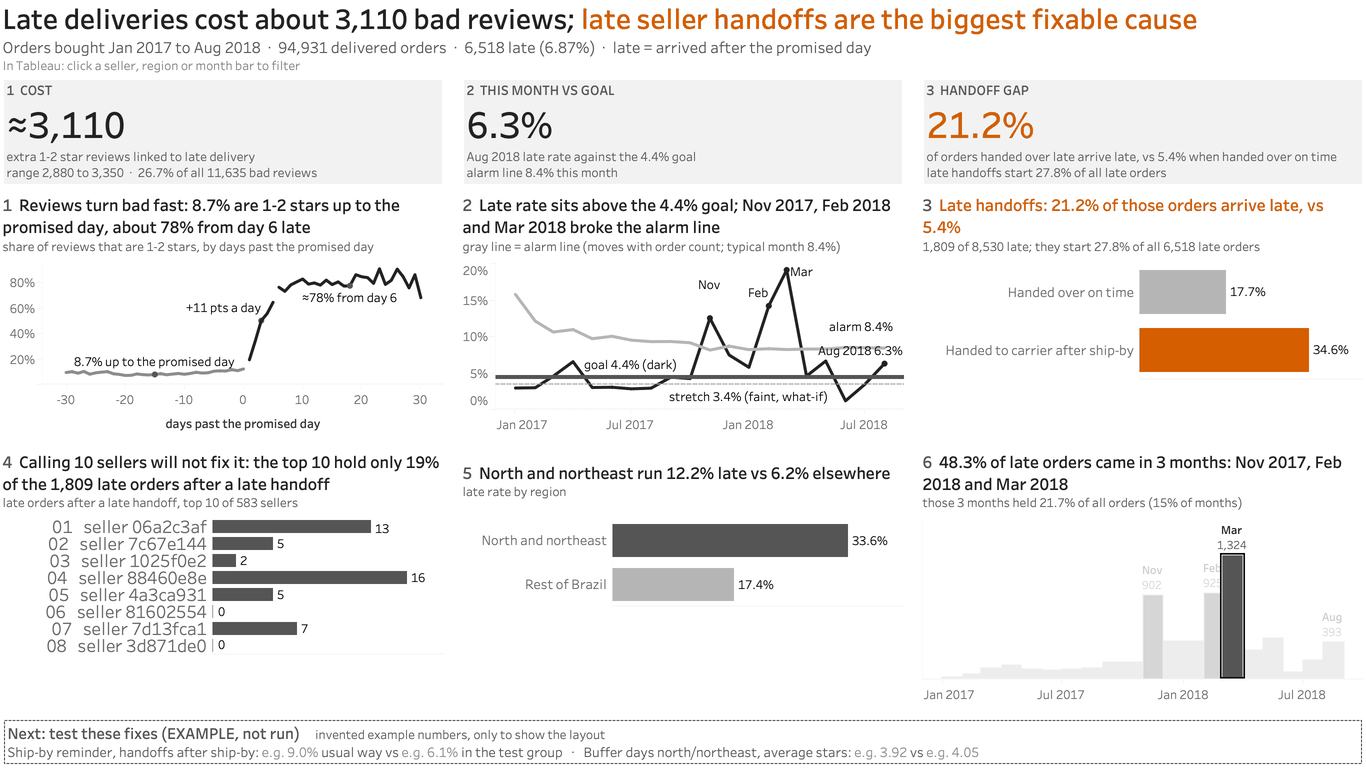
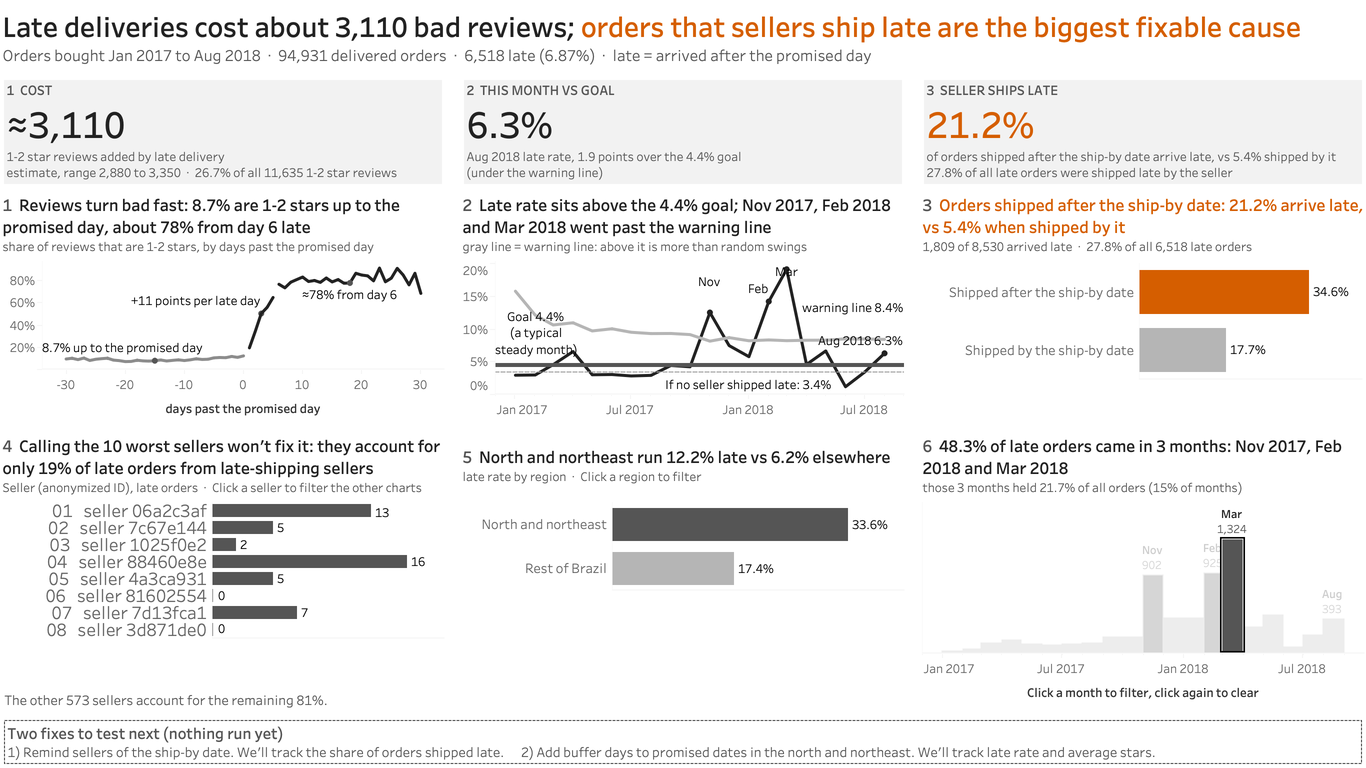
Dashboard wording v3: seller ships late, plain line labels, per-panel click hints, seller panel decision, two fixes to test next
- 'handoff' / 'alarm line' / 'stretch what-if' replaced on the dashboard by plain words; data tables keep their names
- tile 2 shows points over goal computed from summary.csv; seller panel title, anonymized-ID header, computed closing line
- bottom strip names two fixes to test next, no numbers
- click hints per panel, global hint removed
- regenerated workbook and PNG; seller, region and month clicks re-tested; README and evidence updated

diff --git a/dashboard/tableau/gen_workbook.py b/dashboard/tableau/gen_workbook.py
@@ -3,7 +3,7 @@
 
 Builds the Tableau workbook XML for the late-delivery dashboard (layout B1, version 2). The workbook head comes from
 ctrl_saved_desktop_free.twb in this folder, a workbook saved by Tableau Desktop (hand-written workbooks do not open).
-Both data dirs hold orders.csv, ramp_b.csv, monthly_long.csv, summary.csv and tests_example.csv. The second path is
+Both data dirs hold orders.csv, ramp_b.csv, monthly_long.csv, summary.csv. The second path is
 written into the workbook as the folder Tableau reads the CSVs from.
 
 Settings (environment variables):
@@ -306,7 +306,6 @@ def p0(x): return '%d%%'%round(x*100)
 def p1(x): return '%.1f%%'%(x*100)
 def p2(x): return '%.2f%%'%(x*100)
 def n0(x): return format(int(round(float(x))),',')
-TESTS=list(csv.DictReader(open(os.path.join(boxdata,'tests_example.csv'))))
 ACC=OR; INK='#222222'; MID='#555555'; LIGHT='#B5B5B5'; PALE='#D0D0D0'
 ORD=D_ord=DS('ord','orders','orders.csv'); D={'ord':ORD}
 D['ramp']=DS('ramp','ramp_b','ramp_b.csv'); D['ml']=DS('ml','monthly_long','monthly_long.csv')
@@ -335,13 +334,13 @@ worksheet('Trend',M,[('value','sum'),xk],mark='Line',cols=M.q(*xk),rows=M.q('val
     tip=TIPS.get(os.environ.get('TIPV','a')))
 # ---- 3 why: handoff
 ows('Handoff',ORD,[('has_handoff','nk')],mark='Bar',rows=ORD.q('handoff_group','nk'),cols=ORD.q('late','avg'),color=('handoff_group','nk'),text=('late','avg'),
-    palette_map=[('Handed to carrier after ship-by',ACC),('Handed over on time',LIGHT)],hide_axes=[('late','avg')],extra_uses=[('late','avg'),('handoff_group','nk')],
+    palette_map=[('Shipped after the ship-by date',ACC),('Shipped by the ship-by date',LIGHT)],hide_axes=[('late','avg')],extra_uses=[('late','avg'),('handoff_group','nk')],
     filt=fmember(ORD,'has_handoff','true'),header_w=(('handoff_group','nk'),215),header_font=(10,'normal'),cell_rules=[('cell','height',58,ORD.q('handoff_group','nk'))],
     tip=['Orders: ',('order_code','cnt'),'\nLate orders: ',('late_n','sum'),'\nLate rate: ',('late','avg')])
 # ---- 4 who: sellers (top 10 overall)
 ows('Sellers',ORD,[('is_top10','nk')],mark='Bar',rows=ORD.q('seller_label','nk'),cols=ORD.q('lalh_n','sum'),text=('lalh_n','sum'),pane_color=MID,
     hide_axes=[('lalh_n','sum')],extra_uses=[('lalh_n','sum'),('seller_label','nk')],filt=fmember(ORD,'is_top10','true'),header_w=(('seller_label','nk'),210),header_font=(13,'bold'),cell_rules=[('cell','height',17,ORD.q('seller_label','nk'))],
-    tip=['Orders: ',('order_code','cnt'),'\nOrders handed over late: ',('late_handoff_n','sum'),'\nLate orders after a late handoff: ',('lalh_n','sum'),'\nLate orders (all): ',('late_n','sum'),'\nLate rate: ',('late','avg')])
+    tip=['Orders: ',('order_code','cnt'),'\nOrders shipped late: ',('late_handoff_n','sum'),'\nLate orders that were shipped late: ',('lalh_n','sum'),'\nLate orders (all): ',('late_n','sum'),'\nLate rate: ',('late','avg')])
 # ---- 5 where / when
 ows('Region',ORD,None,mark='Bar',rows=ORD.q('region_group','nk'),cols=ORD.q('late','avg'),color=('region_group','nk'),text=('late','avg'),
     palette_map=[('North and northeast',MID),('Rest of Brazil',LIGHT)],hide_axes=[('late','avg')],extra_uses=[('late','avg'),('region_group','nk')],
@@ -350,7 +349,7 @@ ows('Region',ORD,None,mark='Bar',rows=ORD.q('region_group','nk'),cols=ORD.q('lat
 BK=('month_start','tmn')
 ows('Months',ORD,[BK],mark='Bar',cols=ORD.q(*BK),rows=ORD.q('late_n','sum'),color=('is_worst3_month','nk'),text=[('month_tag','nk'),('late_tag_n','sum')],runs=None if 'NORUNS' in os.environ.get('X','') else [(('month_tag','nk'),8,True,INK),(None,0,0,''),(('late_tag_n','sum'),8,False,MID)],
     palette_map=[('true',MID),('false',PALE)],hide_axes=[('late_n','sum')],extra_uses=[('late_n','sum'),('late_tag_n','sum'),BK],
-    axis_titles={(BK[0],BK[1],'cols'):'',('late_n','sum','rows'):''},xspace=(BK,'#2017-01-01#','6.0','months'),datefmts=[('label','*mmm yyyy',None)],
+    axis_titles={(BK[0],BK[1],'cols'):'Click a month to filter, click again to clear',('late_n','sum','rows'):''},xspace=(BK,'#2017-01-01#','6.0','months'),datefmts=[('label','*mmm yyyy',None)],
     tip=['Orders: ',('order_code','cnt'),'\nLate orders: ',('late_n','sum'),'\nLate rate: ',('late','avg')])
 # ----------------------------------------------------------------------- dashboard
 W,Hh=1366,768
@@ -375,21 +374,20 @@ def ztxt(runs,x,y,w,h,style=''):
     return "        <zone h='%d' id='%d' type='text' w='%d' x='%d' y='%d'><formatted-text>%s</formatted-text>%s</zone>\n"%(P(h),nid(),P(w),P(x),P(y),''.join(rr),style or zstyle())
 NL=('\n',0,0,'')
 fin_a='Late deliveries cost about %s bad reviews; '%n0(F('extra_bad_reviews_rounded'))
-fin_b='late seller handoffs are the biggest fixable cause'
+fin_b='orders that sellers ship late are the biggest fixable cause'
 CX=[1,34,67]; CW=32
 Z=''
-Z+=ztxt([(fin_a,20,True,INK),(fin_b,20,True,ACC),NL,('Orders bought Jan 2017 to Aug 2018  ·  %s delivered orders  ·  %s late (%s)  ·  late = arrived after the promised day'%(n0(F('judged_orders')),n0(F('late_orders')),p2(F('late_rate'))),11,False,MID),NL,
-        ('In Tableau: click a seller, region or month bar to filter',9,False,'#808080')],1,0.4,98,9.6)
-kpi=[('1  COST',INK,'≈'+n0(F('extra_bad_reviews_rounded')),'extra 1-2 star reviews linked to late delivery','range %s to %s  ·  %s of all %s bad reviews'%(n0(F('extra_range_low_rounded')),n0(F('extra_range_high_rounded')),p1(F('extra_share_of_bad_reviews')),n0(F('bad_reviews_all')))),
-     ('2  THIS MONTH VS GOAL',INK,p1(F('latest_month_late_rate')),'%s late rate against the %s goal'%(SUM['latest_month_label'],p1(F('goal_late_rate'))),'alarm line %s this month'%p1(F('latest_month_own_alarm_line_late_rate'))),
-     ('3  HANDOFF GAP',ACC,p1(F('late_handoff_late_rate')),'of orders handed over late arrive late, vs %s when handed over on time'%p1(F('on_time_handoff_late_rate')),'late handoffs start %s of all late orders'%p1(F('late_handoff_share_of_late')))]
+Z+=ztxt([(fin_a,20,True,INK),(fin_b,20,True,ACC),NL,('Orders bought Jan 2017 to Aug 2018  ·  %s delivered orders  ·  %s late (%s)  ·  late = arrived after the promised day'%(n0(F('judged_orders')),n0(F('late_orders')),p2(F('late_rate'))),11,False,MID)],1,0.4,98,9.6)
+kpi=[('1  COST',INK,'≈'+n0(F('extra_bad_reviews_rounded')),'1-2 star reviews added by late delivery','estimate, range %s to %s  ·  %s of all %s 1-2 star reviews'%(n0(F('extra_range_low_rounded')),n0(F('extra_range_high_rounded')),p1(F('extra_share_of_bad_reviews')),n0(F('bad_reviews_all')))),
+     ('2  THIS MONTH VS GOAL',INK,p1(F('latest_month_late_rate')),'%s late rate, %.1f points %s the %s goal'%(SUM['latest_month_label'],abs(F('latest_month_late_rate')-F('goal_late_rate'))*100,'over' if F('latest_month_late_rate')>=F('goal_late_rate') else 'under',p1(F('goal_late_rate'))),'(%s the warning line)'%('under' if F('latest_month_late_rate')<F('latest_month_own_alarm_line_late_rate') else 'over')),
+     ('3  SELLER SHIPS LATE',ACC,p1(F('late_handoff_late_rate')),'of orders shipped after the ship-by date arrive late, vs %s shipped by it'%p1(F('on_time_handoff_late_rate')),'%s of all late orders were shipped late by the seller'%p1(F('late_handoff_share_of_late')))]
 if VAR=='b1':
     for i,(h,c,big,s1,s2) in enumerate(kpi):
         Z+=ztxt([(h,10,True,MID),NL,(big,27,True,c),NL,(s1,9,False,MID),NL,(s2,9,False,MID)],CX[i],10.2,CW,14.6,zstyle(bg='#F2F2F2',margin=4))
     R1T=25.0
 else:
     runs=[]
-    segs=[('≈'+n0(F('extra_bad_reviews_rounded')),INK,' extra bad reviews linked to late delivery'),(p1(F('latest_month_late_rate')),INK,' late in %s, goal %s'%(SUM['latest_month_label'],p1(F('goal_late_rate')))),(p1(F('late_handoff_late_rate')),ACC,' late after a late handoff, vs %s'%p1(F('on_time_handoff_late_rate')))]
+    segs=[('≈'+n0(F('extra_bad_reviews_rounded')),INK,' extra bad reviews linked to late delivery'),(p1(F('latest_month_late_rate')),INK,' late in %s, goal %s'%(SUM['latest_month_label'],p1(F('goal_late_rate')))),(p1(F('late_handoff_late_rate')),ACC,' late when shipped late, vs %s'%p1(F('on_time_handoff_late_rate')))]
     for j,(b,c,t) in enumerate(segs):
         if j: runs.append(('      |      ',14,False,LIGHT))
         runs+= [(b,24,True,c),(t,12,False,MID)]
@@ -400,24 +398,24 @@ def title(n,head,note,x,y,w,hh=TH,hc=INK):
     runs=[('%s  '%n,12,True,MID),(head,12,True,hc)]
     if note: runs+=[NL,(note,9,False,MID)]
     return ztxt(runs,x,y,w,hh)
-r1c=R1T+TH; r1h=(57.6-r1c)
+r1c=R1T+TH; r1h=(55.6-r1c)
 r2T=r1c+r1h+0.6; r2c=r2T+TH; r2h=92.4-r2c
 Z+=title('1','Reviews turn bad fast: %s are 1-2 stars up to the promised day, about %s from day 6 late'%(p1(F('ramp_share_up_to_promised_day')),p0(F('ramp_share_from_day_6'))),'share of reviews that are 1-2 stars, by days past the promised day',CX[0],R1T,CW)
 Z+=zone_sheet('Review ramp',CX[0],r1c,CW,r1h,zstyle(margin=2))
-Z+=title('2','Late rate sits above the %s goal; %s broke the alarm line'%(p1(F('goal_late_rate')),SUM['worst3_months_label']),'gray line = alarm line (moves with order count; typical month %s)'%p1(F('typical_month_alarm_line_late_rate')),CX[1],R1T,CW)
+Z+=title('2','Late rate sits above the %s goal; %s went past the warning line'%(p1(F('goal_late_rate')),SUM['worst3_months_label']),'gray line = warning line: above it is more than random swings',CX[1],R1T,CW)
 Z+=zone_sheet('Trend',CX[1],r1c,CW,r1h,zstyle(margin=2))
-Z+=title('3','Late handoffs: %s of those orders arrive late, vs %s'%(p1(F('late_handoff_late_rate')),p1(F('on_time_handoff_late_rate'))),'%s of %s late; they start %s of all %s late orders'%(n0(F('late_handoff_late_orders')),n0(F('late_handoff_orders')),p1(F('late_handoff_share_of_late')),n0(F('late_orders'))),CX[2],R1T,CW,hc=ACC)
+Z+=title('3','Orders shipped after the ship-by date: %s arrive late, vs %s when shipped by it'%(p1(F('late_handoff_late_rate')),p1(F('on_time_handoff_late_rate'))),'%s of %s arrived late  ·  %s of all %s late orders'%(n0(F('late_handoff_late_orders')),n0(F('late_handoff_orders')),p1(F('late_handoff_share_of_late')),n0(F('late_orders'))),CX[2],R1T,CW,hc=ACC)
 Z+=zone_sheet('Handoff',CX[2],r1c,CW,r1h,zstyle(margin=4))
-Z+=title('4','Calling 10 sellers will not fix it: the top 10 hold only %s of the %s late orders after a late handoff'%(p0(F('top10_share_of_late_after_late_handoff')),n0(F('late_handoff_late_orders'))),'late orders after a late handoff, top 10 of %s sellers'%n0(F('sellers_with_late_after_late_handoff')),CX[0],r2T,CW)
-Z+=zone_sheet('Sellers',CX[0],r2c,CW,r2h,zstyle(margin=2))
-Z+=title('5','North and northeast run %s late vs %s elsewhere'%(p1(F('nne_late_rate')),p1(F('rest_late_rate'))),'late rate by region',CX[1],r2T,CW)
+N_SELL=int(round(F('sellers_with_late_after_late_handoff')))
+CLOSE_H=2.6
+Z+=title('4',"Calling the 10 worst sellers won't fix it: they account for only %s of late orders from late-shipping sellers"%p0(F('top10_share_of_late_after_late_handoff')),'Seller (anonymized ID), late orders  ·  Click a seller to filter the other charts',CX[0],r2T,CW)
+Z+=zone_sheet('Sellers',CX[0],r2c,CW,r2h-CLOSE_H,zstyle(margin=2))
+Z+=ztxt([('The other %d sellers account for the remaining %s.'%(N_SELL-10,p0(1-F('top10_share_of_late_after_late_handoff'))),10,False,MID)],CX[0],r2c+r2h-CLOSE_H,CW,CLOSE_H,zstyle(margin=2))
+Z+=title('5','North and northeast run %s late vs %s elsewhere'%(p1(F('nne_late_rate')),p1(F('rest_late_rate'))),'late rate by region  ·  Click a region to filter',CX[1],r2T,CW)
 Z+=zone_sheet('Region',CX[1],r2c,CW,min(r2h,14),zstyle(margin=2))
 Z+=ztxt([('6  ',12,True,MID),('%s of late orders came in 3 months: %s'%(p1(F('worst3_share_of_late')),SUM['worst3_months_label']),12,True,INK),NL,('those 3 months held %s of all orders (%s of months)'%(p1(F('worst3_share_of_orders')),p0(F('worst3_share_of_months'))),9,False,MID)],CX[2],r2T,CW,TH)
 Z+=zone_sheet('Months',CX[2],r2c,CW,r2h,zstyle(margin=2))
-t1,t2=TESTS[0],TESTS[1]
-EG='#8A8A8A'
-def eg(v): return ('e.g. '+v.rstrip('*'),10,False,EG)
-Z+=ztxt([('Next: test these fixes (EXAMPLE, not run)',11,True,MID),('      invented example numbers, only to show the layout',9,False,MID),NL,('Ship-by reminder, handoffs after ship-by: ',10,False,MID),eg(t1['no_change_group_display']),(' usual way vs ',10,False,MID),eg(t1['test_group_display']),(' in the test group   ·   Buffer days north/northeast, average stars: ',10,False,MID),eg(t2['no_change_group_display']),(' vs ',10,False,MID),eg(t2['test_group_display'])],1,93.1,98,6.8,zstyle(border=MID,bstyle='dashed',bw=1,margin=4))
+Z+=ztxt([('Two fixes to test next (nothing run yet)',11,True,MID),NL,("1) Remind sellers of the ship-by date. We'll track the share of orders shipped late.      2) Add buffer days to promised dates in the north and northeast. We'll track late rate and average stars.",10,False,MID)],1,93.1,98,6.8,zstyle(border=MID,bstyle='dashed',bw=1,margin=4))
 ACTIONS=''
 def action(cap,src,exclude):
     return ("    <action caption='%s' name='[Action_%s]'>\n      <activation auto-clear='true' type='on-select' />\n      <source dashboard='%s' type='sheet' worksheet='%s' />\n      <command command='tsc:tsl-filter'>\n        <param name='exclude' value='%s' />\n        <param name='special-fields' value='all' />\n        <param name='target' value='%s' />\n      </command>\n    </action>\n")%(cap,h32(cap)[:16],DASH,src,exclude,DASH)
@@ -464,11 +462,11 @@ if TR:
     GS=os.environ.get('GSZ','4'); SS=os.environ.get('SSZ','1')
     GP=F('goal_late_rate'); SP=F('stretch_whatif_late_rate')
     PARAMS="    <datasource hasconnection='false' inline='true' name='Parameters' version='18.1'>\n      <aliases enabled='yes' />\n"
-    for i,(cap,v) in enumerate([('Goal',GP),('Stretch what-if',SP)],1):
+    for i,(cap,v) in enumerate([('Goal (a typical steady month)',GP),('If no seller shipped late',SP)],1):
         PARAMS+="      <column caption='%s' datatype='real' default-format='p1%%' name='[Parameter %d]' param-domain-type='range' role='measure' type='quantitative' value='%r'>\n        <calculation class='tableau' formula='%r' />\n        <range granularity='0.001' max='0.2' min='0.0' />\n      </column>\n"%(cap,i,v,v)
     PARAMS+="    </datasource>\n"
     PDEP="          <datasource-dependencies datasource='Parameters'>\n"
-    for i,(cap,v) in enumerate([('Goal',GP),('Stretch what-if',SP)],1):
+    for i,(cap,v) in enumerate([('Goal (a typical steady month)',GP),('If no seller shipped late',SP)],1):
         PDEP+="            <column caption='%s' datatype='real' default-format='p1%%' name='[Parameter %d]' param-domain-type='range' role='measure' type='quantitative' value='%r'>\n              <calculation class='tableau' formula='%r' />\n              <range granularity='0.001' max='0.2' min='0.0' />\n            </column>\n"%(cap,i,v,v)
     PDEP+="          </datasource-dependencies>\n"
     ax=M.q('value','sum')

diff --git a/dashboard/tableau/prep.py b/dashboard/tableau/prep.py
@@ -15,7 +15,7 @@ p1=lambda x:'%.1f%%'%(float(x)*100); p2=lambda x:'%.2f%%'%(float(x)*100); p0=lam
 M=rd('monthly'); first,last=M[0]['month_label'],M[-1]['month_label']
 # ---- ramp + labels
 R=rd('review_ramp')
-labs={'-15':'%s up to the promised day'%p1(F('ramp_share_up_to_promised_day')),'3':'+%d pts a day'%round(F('ramp_points_per_day')*100),'18':'≈%s from day 6'%p0(F('ramp_share_from_day_6'))}
+labs={'-15':'%s up to the promised day'%p1(F('ramp_share_up_to_promised_day')),'3':'+%d points per late day'%round(F('ramp_points_per_day')*100),'18':'≈%s from day 6'%p0(F('ramp_share_from_day_6'))}
 RB=[]
 for r in R:
     r=dict(r); r['lab']=''; RB.append(r)
@@ -37,7 +37,7 @@ for i,m in enumerate(M):
         add(m,i,'Alarm month','late_rate','\u2003'*{'2017-11':1,'2018-02':2,'2018-03':3}.get(m['year_month'],4))
         add(m,i,'Month label','late_rate',m['month_label'].split()[0],{'2017-11':0.028,'2018-02':0.0,'2018-03':0.0}.get(m['year_month'],0.0))
     if m['year_month']==M[-1]['year_month']: add(m,i,'Latest month','late_rate','%s %s'%(m['month_label'],p1(m['late_rate'])))
-    if m['year_month']=='2018-05': add(m,i,'Alarm label','own_month_alarm_line_late_rate','alarm %s'%p1(F('latest_month_own_alarm_line_late_rate')),0.03)
-    if (not REF) and m['year_month']=='2017-07': add(m,i,'Goal label','goal_late_rate','goal %s (dark)'%p1(m['goal_late_rate']))
-    if (not REF) and m['year_month']=='2018-01': add(m,i,'Stretch label','stretch_whatif_late_rate','stretch %s (faint, what-if)'%p1(m['stretch_whatif_late_rate']))
+    if m['year_month']=='2018-05': add(m,i,'Alarm label','own_month_alarm_line_late_rate','warning line %s'%p1(F('latest_month_own_alarm_line_late_rate')),0.03)
+    if (not REF) and m['year_month']=='2017-02': add(m,i,'Goal label','goal_late_rate','Goal %s\n(a typical\nsteady month)'%p1(m['goal_late_rate']),0.003)
+    if (not REF) and m['year_month']=='2018-01': add(m,i,'Stretch label','stretch_whatif_late_rate','If no seller shipped late: %s'%p1(m['stretch_whatif_late_rate']))
 wr('monthly_long',rows)

diff --git a/dashboard/tableau/export_orders.py b/dashboard/tableau/export_orders.py
@@ -28,7 +28,7 @@ select left(j.order_id,8) as order_code,
        cast(case when (mo.w3 or strftime(j.purchase_date,'%Y-%m')='2018-08') and j.is_late then 1 end as int) as late_tag_n,
        j.ship_to_state as state, m.region_group,
        cast(j.is_late as int) as late, cast(j.is_late as int) as late_n,
-       case when j.handed_over_late is null then 'No handoff time' when j.handed_over_late then 'Handed to carrier after ship-by' else 'Handed over on time' end as handoff_group,
+       case when j.handed_over_late is null then 'No shipping time' when j.handed_over_late then 'Shipped after the ship-by date' else 'Shipped by the ship-by date' end as handoff_group,
        case when j.handed_over_late is null then 'false' else 'true' end as has_handoff,
        cast(coalesce(j.handed_over_late and j.is_late,false) as int) as late_after_late_handoff,
        cast(coalesce(j.handed_over_late and j.is_late,false) as int) as lalh_n,

diff --git a/dashboard/tableau/README.md b/dashboard/tableau/README.md
@@ -1,10 +1,12 @@
-# Tableau dashboard (layout B1, version 2)
+# Tableau dashboard (layout B1, version 2, wording v3)
 
-The late-delivery dashboard as a Tableau Desktop workbook, with the script that builds it and the checks that show its clicks work. Tableau draws it. Every number comes from `dashboard/data/` and the dbt warehouse; none is typed in. Where the labels sit (which months are named, where the goal and alarm labels go) is set by hand for this data window.
+The late-delivery dashboard as a Tableau Desktop workbook, with the script that builds it and the checks that show its clicks work. Tableau draws it. Every number comes from `dashboard/data/` and the dbt warehouse; none is typed in. Where the labels sit (which months are named, where the goal, stretch and warning-line labels go) is set by hand for this data window.
 
 ![dashboard](B1_v2.png)
 
-The title says the finding: late deliveries cost about 3,110 bad reviews, and late seller handoffs are the biggest fixable cause. Three tiles (cost, this month against the 4.4% goal, handoff gap 21.2% vs 5.4%), then trend, why, and where. Gray everywhere, orange only for the handoff gap. Panel 6 is an invented example, as in the data README.
+The title says the finding: late deliveries cost about 3,110 bad reviews, and orders that sellers ship late are the biggest fixable cause. Three tiles (cost, this month against the 4.4% goal, seller ships late 21.2% vs 5.4%), then trend, why, and where. Gray everywhere, orange only for orders shipped after the ship-by date. The strip at the bottom names two fixes to test next, with what each would track; it holds no numbers and nothing has been run.
+
+The wording is plain on purpose ("seller ships late", "warning line"), after a comparison with well-rated public dashboards. The data tables and the dbt models keep the older names (handoff, alarm line, stretch what-if); only the words on the dashboard changed. Each clickable panel carries its own click hint. Every figure in the text is built from `summary.csv` when the workbook is generated, including the "1.9 points over the goal" in tile 2 (latest month's late rate minus the goal) and the "other 573 sellers, 81%" line under the seller bars (583 sellers with a late-shipped late order, minus 10; one minus the top-10 share). The warning line's note says what it means in a few words; that it moves with each month's order count is not on the dashboard any more (there was no room).
 
 ## Files
 
@@ -13,7 +15,7 @@ The title says the finding: late deliveries cost about 3,110 bad reviews, and la
 | `out_b1_v2.twb` | the workbook. It reads its CSVs from `/path/to/olist_dash/data` (a placeholder: regenerate for your own folder, below, or repoint the data source in Tableau). |
 | `B1_v2.png` | the exported image of the dashboard |
 | `gen_workbook.py`, `ctrl_saved_desktop_free.twb` | builds the workbook XML from a control file saved by Tableau Desktop (hand-written workbooks do not open) |
-| `prep.py` | makes `ramp_b.csv` and `monthly_long.csv` from `dashboard/data/` |
+| `prep.py` | makes `ramp_b.csv` and `monthly_long.csv` from `dashboard/data/`, including the line labels |
 | `export_orders.py` | writes `orders.csv` from the warehouse: one row per judged order, the 94,931 delivered single-seller orders bought January 2017 to August 2018 |
 | `harness/` | Mac-only tools: `export_dash.py` (open a workbook, export the image, then quit Tableau), `click_probe.py` + `mclick.js` (click a mark and export). Run them from this folder layout; settings are in each script's header and can be changed with environment variables. |
 | `evidence/` | the click tests: a note per test and the images (downscaled to 1366 x 768; the notes give the md5 of the full-size exports) |
@@ -26,7 +28,7 @@ The title says the finding: late deliveries cost about 3,110 bad reviews, and la
 
 ```bash
 make build dashboard                      # warehouse and dashboard/data
-mkdir -p /tmp/olist_tableau && cp dashboard/data/summary.csv dashboard/data/tests_example.csv /tmp/olist_tableau/
+mkdir -p /tmp/olist_tableau && cp dashboard/data/summary.csv /tmp/olist_tableau/
 python3 dashboard/tableau/prep.py dashboard/data /tmp/olist_tableau
 python3 dashboard/tableau/export_orders.py /tmp/olist_tableau/orders.csv      # needs the duckdb package; OLIST_DB_PATH picks the warehouse
 python3 dashboard/tableau/gen_workbook.py /tmp/olist_tableau /tmp/olist_tableau dashboard/tableau/out_b1_v2.twb
@@ -34,21 +36,21 @@ python3 dashboard/tableau/gen_workbook.py /tmp/olist_tableau /tmp/olist_tableau 
 
 The last command writes `dashboard/tableau/out_b1_v2.twb`, which replaces the committed file. Its two folder arguments differ for a reason. The first is where the script reads the CSV headers from. The second is the folder written into the workbook as the place Tableau reads the CSVs from. The committed workbook names `/path/to/olist_dash/data`, so a workbook built with `/tmp/olist_tableau` differs from it only in the three data-folder lines; pass `/path/to/olist_dash/data` as the second argument to get the committed text exactly.
 
-What was checked, on the machine that built the dashboard (2026-11-19, against the warehouse copy it used): the `orders.csv` from `export_orders.py` and the two CSVs from `prep.py` were byte-identical to the files behind the committed workbook, and `gen_workbook.py` with the Mac data path gave a file identical to `out_b1_v2.twb`. It has not been re-run on another machine or against a fresh `make build`.
+What was checked (2026-11-19, against the warehouse copy the dashboard was built from): the three CSVs and the workbook above were regenerated by these commands for this version, the workbook was opened in Tableau Desktop 2026.3 on the Mac and exported to `B1_v2.png`, and a 45-line number check (every figure on the image against DuckDB and `summary.csv`, plus the new computed ones and the workbook text) had no mismatch. The number check script is not in the repo. `orders.csv` itself is not committed. It has not been re-run on another machine or against a fresh `make build`.
 
 Settings you may meet: `VAR` (b1 three tiles, shipped, or b2 one-line strip), `ONLY` (build only the named sheets, separated by `|`), `REF` (for `prep.py`: leave the goal and stretch data lines out), `OPT` (read but unused); `gen_workbook.py`'s header lists the rest (`TR`, `GSZ`, `SSZ`, `PAT`, `FILT`, `TIPV`, `X`).
 
 ## Clicking filters the other panels
 
-Clicking a seller, a region bar or a month bar filters the sellers, handoff, region and months panels. The tiles, the chart titles and the trend panel always show all orders. Tableau, not an image, is needed for this: run it in Tableau Desktop.
+Clicking a seller, a region bar or a month bar filters the sellers, shipped-late, region and months panels. The tiles, the chart titles and the trend panel always show all orders. Tableau, not an image, is needed for this: run it in Tableau Desktop.
 
-All three were tested on the shipped `out_b1_v2.twb` in Tableau Desktop 2026.3 on 2026-11-19: a real mouse click, then Dashboard > Export Image, compared with a DuckDB query on the same filter. After each click, clicking again gave an export with the same md5 as the unfiltered one (`ff0f1e64...`), so one `baseline.png` stands for all three clears.
+All three were tested on the shipped `out_b1_v2.twb` (this wording version) in Tableau Desktop 2026.3 on 2026-11-19: a real mouse click, then Dashboard > Export Image, compared with a DuckDB query on the same filter. After each click, clicking again gave an export with the same md5 as the unfiltered one (`7ec795fb...`), so one `baseline.png` stands for all three clears. The click hints on the dashboard are in the panels: the seller and region hints in each panel's note line, the month hint under the months chart.
 
 | Click | Result | Matches DuckDB |
 |---|---|---|
-| seller `06a2c3af` | handoff 3.0% / 54.5% (was 5.4% / 21.2%), region 22.4% / 18.2%, month labels Feb 2, Mar 17, Aug 1 | yes |
-| region North and northeast | handoff 11.0% / 24.5%, sellers 16, 8, 4, 0, 4, 0, 6, 4, 1, 1, month labels Nov 161, Feb 147, Mar 252, Aug 11 | yes |
-| month Mar 2018 | handoff 17.7% / 34.6%, region 33.6% / 17.4%, sellers 13, 5, 2, 16, 5, 0, 7, 0 (ranks 9 and 10 had no orders that month), Mar bar 1,324 | yes |
+| seller `06a2c3af` | shipped by / after the ship-by date 3.0% / 54.5% (was 5.4% / 21.2%), region 22.4% / 18.2%, month labels Feb 2, Mar 17, Aug 1 | yes |
+| region North and northeast | shipped by / after 11.0% / 24.5%, sellers 16, 8, 4, 0, 4, 0, 6, 4, 1, 1, month labels Nov 161, Feb 147, Mar 252, Aug 11 | yes |
+| month Mar 2018 | shipped by / after 17.7% / 34.6%, region 33.6% / 17.4%, sellers 13, 5, 2, 16, 5, 0, 7, 0 (ranks 9 and 10 had no orders that month), Mar bar 1,324 | yes |
 
 Images: `evidence/baseline.png`, `click_seller.png`, `click_region.png`, `click_month.png`. Notes and the md5 of each full-size export: `evidence/click_seller.md`, `evidence/click_region_month.md`. The seller test was run twice on this file, with the same result. The harness needs macOS Accessibility permission for the app that runs it. It puts Tableau in Presentation Mode, which centres the 1366 x 768 dashboard, and works out the click position from the layout. A click that comes from `System Events` is an accessibility press, not a mouse click, and does not select a mark.
 
@@ -56,9 +58,10 @@ Images: `evidence/baseline.png`, `click_seller.png`, `click_region.png`, `click_
 
 The 4.4% goal and the 3.4% stretch line are Tableau reference lines whose value comes from a parameter, so each gets its own thickness: the goal is a heavy solid line, the stretch line a thin dashed one. An earlier try pointed the line at a data column and did not draw.
 
-**The alarm line cannot be dashed.** It changes with each month's order count (small early months get a higher line), so it is a data line, not a constant. In the Tableau files and notes checked, only reference lines, reference bands, trend lines and gridlines carry a dash setting. A data line has one thickness and one style for the whole chart. This was not proven impossible by every route in Desktop.
+**The warning line (the alarm line in the data) cannot be dashed.** It changes with each month's order count (small early months get a higher line), so it is a data line, not a constant. In the Tableau files and notes checked, only reference lines, reference bands, trend lines and gridlines carry a dash setting. A data line has one thickness and one style for the whole chart. This was not proven impossible by every route in Desktop.
 
 ## Other limits found
 
-- A workbook with italic text runs does not open, so the example numbers in the bottom strip are gray, not italic.
+- A workbook with italic text runs does not open, so text on the dashboard is never italic.
+- The goal label ("Goal 4.4% (a typical steady month)") is a three-line label at the left of the trend chart, and it touches the gray warning line and the small bump in early 2017: the chart is too short for a clear one-line label. The "8.7% up to the promised day" label sits right next to the y-axis labels. The seller ID header ("Seller (anonymized ID)") is part of the panel's note line. The export has no seller state, so none is shown.
 - Tableau Public is not used. Nothing here publishes anything.

diff --git a/dashboard/tableau/evidence/click_seller.md b/dashboard/tableau/evidence/click_seller.md
@@ -1,14 +1,14 @@
 VERIFIED
-Workbook: ../out_b1_v2.twb (the shipped file). Tableau Desktop 2026.3, macOS, 2026-11-19, about 21:40 ET.
-Claim: clicking the seller 06a2c3af bar filters the handoff, region and month panels to that seller (the handoff panel moves off 5.4% / 21.2%), and clicking again undoes it. Trend and ramp stay all-order by design.
+Workbook: ../out_b1_v2.twb (the shipped file, wording version 3). Tableau Desktop 2026.3, macOS, 2026-11-19, about 21:55 ET.
+Claim: clicking the seller 06a2c3af bar filters the shipped-late, region and month panels to that seller (the "Orders shipped after the ship-by date" panel moves off 5.4% / 21.2%), and clicking again undoes it. Trend and ramp stay all-order by design.
 
 Images (downscaled to 1366 x 768 for this repo; md5 of the full-size exports in brackets):
- baseline.png      handoff 5.4% / 21.2%, region 12.2% / 6.2%            [ff0f1e647cc5e96dc8d61a1d92395bd5]
- click_seller.png  handoff 3.0% / 54.5%, region 22.4% / 18.2%, months Feb 2, Mar 17, Aug 1; seller bar outlined, others dimmed   [7664f8463440272d14dd4f942a69bca9]
- clear (click again): the export has the same md5 as the baseline, so no separate image is kept.   [ff0f1e647cc5e96dc8d61a1d92395bd5]
+ baseline.png      shipped by 5.4% / shipped after 21.2%, region 12.2% / 6.2%            [7ec795fb934e96f9cf3fc17100dbde11]
+ click_seller.png  shipped by 3.0% / shipped after 54.5%, region 22.4% / 18.2%, months Feb 2, Mar 17, Aug 1; seller bar outlined, others dimmed   [33344d59a1ae0d5939c073d0ec082f47]
+ clear (click again): the export has the same md5 as the baseline, so no separate image is kept.   [7ec795fb934e96f9cf3fc17100dbde11]
 
-DuckDB, seller 06a2c3af: handoff on time 8/267 = 3.0%, late 66/121 = 54.5%; region North and northeast 19/85 = 22.4%, rest 55/303 = 18.2%; month late orders Feb 2, Mar 17, Aug 1; late after a late handoff 66. All match the image.
+DuckDB (orders.csv built from the warehouse by export_orders.py), seller 06a2c3af: shipped by the ship-by date 8/267 = 3.0%, shipped after 66/121 = 54.5%; region North and northeast 22.4%, rest 18.2%; seller bar 66. All match the image.
 
-Method: harness/click_probe.py (Presentation Mode centres the 1366 x 768 dashboard on the 1728 x 1117 pt screen, offset 181, 174.5), a real mouse click from harness/mclick.js at dashboard point (300, 526), which is screen (481, 700), then Esc and Dashboard > Export Image. Run from the committed harness/ folder on the Mac.
+Method: harness/click_probe.py (Presentation Mode centres the 1366 x 768 dashboard on the 1728 x 1117 pt screen, offset 181, 174.5), a real mouse click from harness/mclick.js at dashboard point (307, 510), which is screen (488, 685), then Esc and Dashboard > Export Image. Run from the harness/ folder on the Mac. The panel positions moved a little in this wording version (a closing line was added under the seller bars), so the click points differ from the previous version's.
 Why earlier clicks failed: a System Events "click at" is an accessibility press on the window, not a mouse event.
-Re-run note: this is the second run on out_b1_v2.twb; an earlier run on the same file (about 20:53 ET) gave the same three md5s. The first seller test (about 20:50 ET) was on an earlier workbook without the reference-line change and is not used.
+Version note: the version-2 wording (handoff, alarm line) was click-tested the same way earlier on 2026-11-19 with the same filter results; those images were replaced by these.

diff --git a/dashboard/tableau/evidence/click_region_month.md b/dashboard/tableau/evidence/click_region_month.md
@@ -1,20 +1,22 @@
 VERIFIED (region click) and VERIFIED (month click)
-Workbook: ../out_b1_v2.twb (the shipped file). Tableau Desktop 2026.3, macOS, 2026-11-19, about 21:35 ET.
-Harness: harness/click_probe.py with harness/mclick.js (Presentation Mode, real mouse click, Esc, Export Image). Screen points: region bar North and northeast (848, 714); month bar Mar 2018 (1413, 801).
+Workbook: ../out_b1_v2.twb (the shipped file, wording version 3). Tableau Desktop 2026.3, macOS, 2026-11-19, about 21:56 ET.
+Harness: harness/click_probe.py with harness/mclick.js (Presentation Mode, real mouse click, Esc, Export Image). Screen points: region bar North and northeast (915, 699); month bar Mar 2018 (1412, 802).
 
 Images (downscaled to 1366 x 768; md5 of the full-size exports in brackets):
- baseline.png      [ff0f1e647cc5e96dc8d61a1d92395bd5]
- click_region.png  [55e13bfc9b2bf41b3244272de9577a25]
- click_month.png   [35a42f02933435071b7d4494c54cd40a]
- clear after each click: the export has the baseline md5 (ff0f1e64...) both times, so no separate images are kept.
+ baseline.png      [7ec795fb934e96f9cf3fc17100dbde11]
+ click_region.png  [c831b96d1f38e22ae3eb88d98fabb5d5]
+ click_month.png   [f69491e92ddfd6fc369a158afb1387a7]
+ clear after each click: the export has the baseline md5 (7ec795fb...) both times, so no separate images are kept.
+
+"shipped after / by" below = the bars "Orders shipped after the ship-by date" and "Orders shipped by the ship-by date" in panel 3.
 
 REGION click
-  handoff 11.0% / 24.5%         DuckDB 10.96% / 24.47%   match
+  shipped by 11.0% / after 24.5%   DuckDB 1069/9755 = 11.0%, 233/952 = 24.5%   match
   sellers 16, 8, 4, 0, 4, 0, 6, 4, 1, 1   DuckDB identical   match
   month labels Nov 161, Feb 147, Mar 252, Aug 11   DuckDB identical   match
   region panel: North and northeast bar outlined, the other dimmed
 MONTH click (Mar 2018)
-  handoff 17.7% / 34.6%         DuckDB 1118/6317 = 17.7%, 206/596 = 34.6%   match
+  shipped by 17.7% / after 34.6%   DuckDB 1118/6317 = 17.7%, 206/596 = 34.6%   match
   region 33.6% / 17.4%          DuckDB 33.6 / 17.4   match
   sellers 13, 5, 2, 16, 5, 0, 7, 0 (ranks 9 and 10 absent)   DuckDB 13, 5, 2, 16, 5, 0, 7, 0, 0, 0; ranks 9 and 10 had no orders in March, so no row   match
   Mar 2018 bar 1,324 highlighted, the others dimmed   DuckDB 1,324   match
